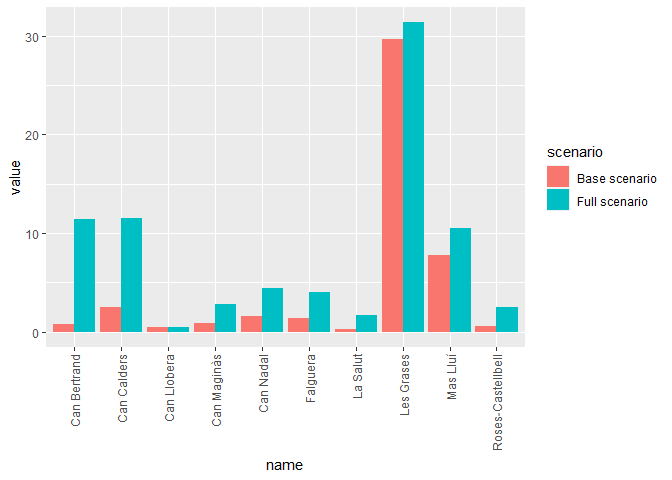
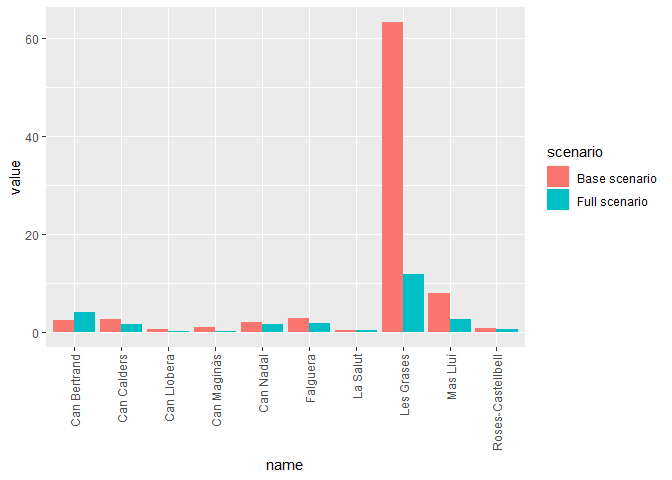
fix bug in green_capita

diff --git a/README.md b/README.md
@@ -3,8 +3,8 @@ ediblecity R package
 Josep Pueyo-Ros
 2022-01-25
 
-This package has not been released on CRAN. However, you can install it
-directly from Github:
+This package has not been released on CRAN yet. However, you can install
+it directly from Github:
 
 ``` r
 devtools::install_github("icra/edibleCity")
@@ -53,7 +53,7 @@ full <- set_scenario(city_example,
                      private_gardens_from = "Normal garden",
                      vacant_from = "Vacant",
                      rooftop_from = "Rooftop",
-                     pCommercial = 0.25,
+                     pCommercial = 0.5,
                      area_field = "flat_area"
              )
 ```
@@ -71,10 +71,10 @@ for (f in city_functions$functions[city_functions$edible]){
 ```
 
     ## [1] "Edible private garden = 182"
-    ## [1] "Commercial garden = 15"
-    ## [1] "Community garden = 42"
-    ## [1] "Hydroponic rooftop = 85"
-    ## [1] "Rooftop garden = 254"
+    ## [1] "Commercial garden = 29"
+    ## [1] "Community garden = 28"
+    ## [1] "Hydroponic rooftop = 170"
+    ## [1] "Rooftop garden = 169"
     ## [1] "Arable land = 3"
     ## [1] "Permanent crops = 2"
 
@@ -101,7 +101,7 @@ edible_jobs(
 ```
 
     ##        5%       50%       95% 
-    ##  432.1023 3932.0483 7750.8711
+    ##  521.7895 4712.1133 9240.4678
 
 ### ESTIMATION OF VOLUNTEERS INVOLVED IN URBAN AGRICULTURE
 
@@ -118,8 +118,8 @@ edible_volunteers(
   interval = 0.95)
 ```
 
-    ##        5%       50%       95% 
-    ##  1862.882 14615.849 27267.582
+    ##         5%        50%        95% 
+    ##   768.8009  6957.1509 12956.2617
 
 ### ESTIMATION OF GREEN PER CAPITA
 
@@ -161,7 +161,7 @@ base_m2
 base_p
 ```
 
-    ## [1] 0.02685679
+    ## [1] 0.0148372
 
 ``` r
 base_table
@@ -170,19 +170,19 @@ base_table
     ## # A tibble: 13 x 4
     ##    name                area inhabitants green_capita
     ##    <chr>              <dbl>       <int>        <dbl>
-    ##  1 Afores - est      46566.          17     2739.   
-    ##  2 Afores - oest     14468.          18      804.   
-    ##  3 Can Bertrand       1224.        1632        0.750
-    ##  4 Can Calders       15032.        6118        2.46 
+    ##  1 Afores - est      81994.          17     4823.   
+    ##  2 Afores - oest     18687.          18     1038.   
+    ##  3 Can Bertrand       3713.        1632        2.28 
+    ##  4 Can Calders       16029.        6118        2.62 
     ##  5 Can Llobera         579.        1319        0.439
     ##  6 Can Maginàs         567.         692        0.820
-    ##  7 Can Nadal         11123.        7050        1.58 
-    ##  8 El Pla            15413.           3     5138.   
-    ##  9 Falguera          10596.        7824        1.35 
+    ##  7 Can Nadal         13022.        7050        1.85 
+    ##  8 El Pla            16170.           3     5390.   
+    ##  9 Falguera          21781.        7824        2.78 
     ## 10 La Salut            988.        4423        0.223
-    ## 11 Les Grases        40702.        1373       29.6  
-    ## 12 Mas Lluí          43063.        5542        7.77 
-    ## 13 Roses-Castellbell  4613.        8874        0.520
+    ## 11 Les Grases        86726.        1373       63.2  
+    ## 12 Mas Lluí          43689.        5542        7.88 
+    ## 13 Roses-Castellbell  5634.        8874        0.635
 
 #### FULL SCENARIO
 
@@ -209,35 +209,35 @@ full_table <- green_capita(full,
 full_m2
 ```
 
-    ## [1] 9.419583
+    ## [1] 1.849405
 
 ``` r
 #Proportion between extreme values in neihbourhoods
 full_p
 ```
 
-    ## [1] 0.01399571
+    ## [1] 0.001603617
 
 ``` r
 full_table
 ```
 
     ## # A tibble: 13 x 4
-    ##    name                area inhabitants green_capita
-    ##    <chr>              <dbl>       <int>        <dbl>
-    ##  1 Afores - est      46566.          17     2739.   
-    ##  2 Afores - oest     14861.          18      826.   
-    ##  3 Can Bertrand      18669.        1632       11.4  
-    ##  4 Can Calders       70585.        6118       11.5  
-    ##  5 Can Llobera         579.        1319        0.439
-    ##  6 Can Maginàs        1926.         692        2.78 
-    ##  7 Can Nadal         31406.        7050        4.45 
-    ##  8 El Pla            66938.           3    22313.   
-    ##  9 Falguera          31567.        7824        4.03 
-    ## 10 La Salut           7595.        4423        1.72 
-    ## 11 Les Grases        43093.        1373       31.4  
-    ## 12 Mas Lluí          58082.        5542       10.5  
-    ## 13 Roses-Castellbell 22490.        8874        2.53
+    ##    name               area inhabitants green_capita
+    ##    <chr>             <dbl>       <int>        <dbl>
+    ##  1 Afores - est      16011          17     942.    
+    ##  2 Afores - oest      8353          18     464.    
+    ##  3 Can Bertrand       6666        1632       4.08  
+    ##  4 Can Calders        9063        6118       1.48  
+    ##  5 Can Llobera          25        1319       0.0190
+    ##  6 Can Maginàs          17         692       0.0246
+    ##  7 Can Nadal         10323        7050       1.46  
+    ##  8 El Pla            17596           3    5865.    
+    ##  9 Falguera          14013        7824       1.79  
+    ## 10 La Salut           1395        4423       0.315 
+    ## 11 Les Grases        16228        1373      11.8   
+    ## 12 Mas Lluí          14157        5542       2.55  
+    ## 13 Roses-Castellbell  5295        8874       0.597
 
 ![](README_files/figure-gfm/green_capita_plot-1.png)<!-- -->
 
@@ -306,8 +306,8 @@ base_summary
 full_summary
 ```
 
-    ##      Min.   1st Qu.    Median      Mean   3rd Qu.      Max. 
-    ##    0.0008  388.6373  522.0792  523.5677  677.2693 1000.2572
+    ##     Min.  1st Qu.   Median     Mean  3rd Qu.     Max. 
+    ##    2.662  848.735 1088.451 1018.526 1254.072 1601.737
 
 ``` r
 base_percent
@@ -319,7 +319,7 @@ base_percent
 full_percent
 ```
 
-    ## [1] 0.8516484
+    ## [1] 0.9755245
 
 ``` r
 colors <- c("Base scenario" = rgb(5,34,255,125, maxColorValue = 255), 
@@ -423,7 +423,7 @@ no2_base
 ```
 
     ##     gr/s 
-    ## 125.6669
+    ## 125.3732
 
 ``` r
 cat("NO2 sequestration in full scenario\n")
@@ -436,7 +436,7 @@ no2_full
 ```
 
     ##     gr/s 
-    ## 148.0751
+    ## 148.7643
 
 ### FOOD PRODUCTION
 
@@ -482,7 +482,7 @@ round(food_full / consumption, 3)
 ```
 
     ##    5%   50%   95% 
-    ## 0.301 0.402 0.508
+    ## 0.344 0.462 0.584
 
 ### RUNOFF PREVENTION
 
